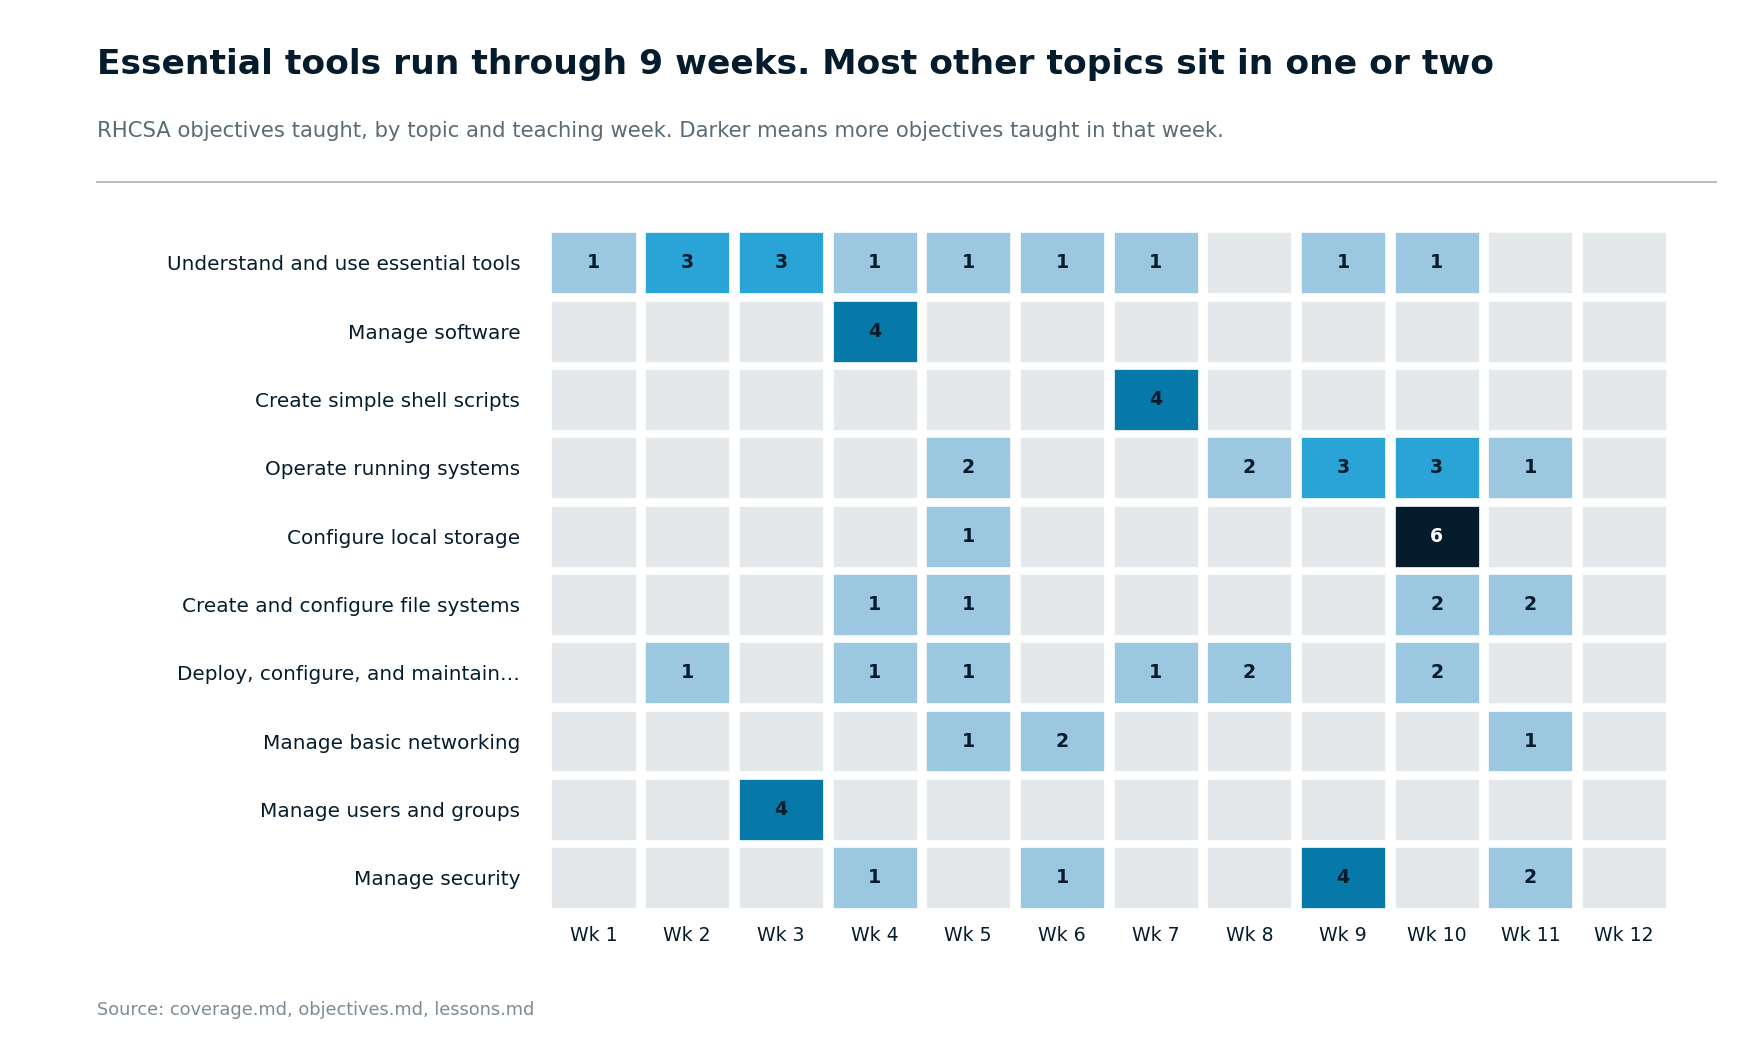
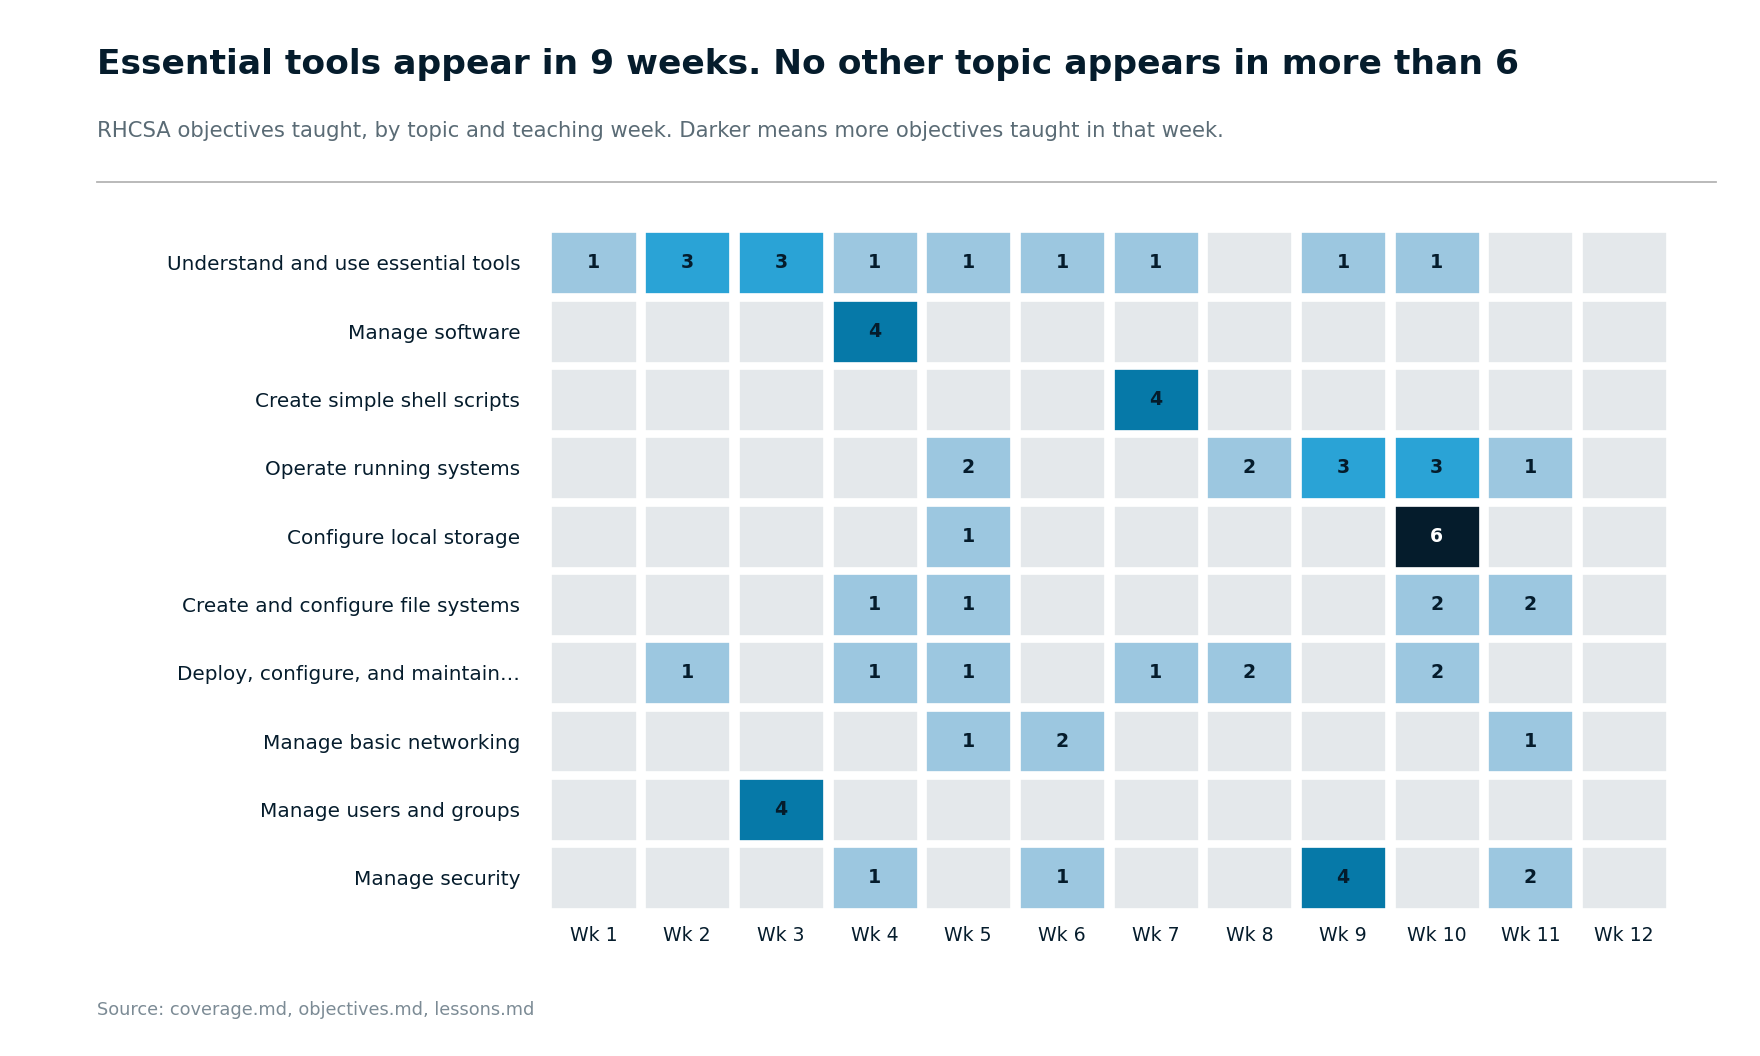
Describe the charts the way a person would
The alt text read like a machine caption. Each one opened with a label fragment,
Teaching load by week, Heatmap of topic against teaching week, then stacked
clipped facts with nothing joining them. Naming the chart type is the giveaway.
Somebody using a screen reader now gets a description, not a caption.

A review by a second model went through the same text. It caught a maxim in
MAINTAINING.md, a screenshot of someone else's work does not become publishable
by being moved into an allowed directory, which is now a plain instruction. It
also made two chart titles active and corrected the fourth, which claimed most
topics sit in one or two weeks when the honest figure is that none appears in
more than six.

The sentence under the charts is first person now, and says why they can be
trusted, which is that they are generated rather than typed.

Copilot-Session: 42281fb8-6781-4982-aa24-2cdbe7877579

Changed region(s): [[0.2188, 0.0312, 0.875, 0.0938]]

diff --git a/README.md b/README.md
@@ -23,21 +23,20 @@ I will add more as the semester goes on.
 
 <picture>
   <source media="(prefers-color-scheme: dark)" srcset="images/01-what-each-week-teaches-dark.png">
-  <img alt="Teaching load by week. Every exam objective is taught by week 11. Week 10 is the heaviest with 14 objectives, against 8 in weeks 4 and 9. Week 12 teaches no examined objective." src="images/01-what-each-week-teaches-light.png">
+  <img alt="One bar for each teaching week, showing how many exam objectives it covers. Week 10 towers over the rest at 14. By week 11 everything the exam asks about has been taught, and week 12 goes to containers, which the exam leaves alone." src="images/01-what-each-week-teaches-light.png">
 </picture>
 
 <picture>
   <source media="(prefers-color-scheme: dark)" srcset="images/04-when-each-topic-is-taught-dark.png">
-  <img alt="Heatmap of topic against teaching week. Essential tools appear in nine weeks. Most other topics sit in one or two." src="images/04-when-each-topic-is-taught-light.png">
+  <img alt="A grid of topics against weeks, shaded where a topic is taught that week. The essential tools row is shaded in nine weeks and keeps coming back. Every other topic sits in six weeks or fewer, usually in one or two runs." src="images/04-when-each-topic-is-taught-light.png">
 </picture>
 
 <picture>
   <source media="(prefers-color-scheme: dark)" srcset="images/03-when-you-can-practise-dark.png">
-  <img alt="The week each additional practice challenge becomes possible. The first opens in week 3 and all ten are open by week 11. The guided exercises run from week 1." src="images/03-when-you-can-practise-light.png">
+  <img alt="The fifteen weeks in a row, marked where challenges become possible. Two open in week 3, then a few more through the term, and the last three in week 11. Six teaching weeks bring nothing new, and the final three weeks are catch-up, revision and the exam." src="images/03-when-you-can-practise-light.png">
 </picture>
 
-These are drawn from the files above. They follow the material, so nobody has to
-keep them up to date by hand.
+I generated these from the files above, so they change when the material does.
 
 ## Getting the material
 

diff --git a/MAINTAINING.md b/MAINTAINING.md
@@ -53,12 +53,12 @@ That directory holds charts generated from the repository's own files by
 `.private/coverage-viz/generate.py`. Run that script to rebuild them after
 changing `coverage.md`, `lessons.md`, `objectives.md` or `practice.md`.
 
-Nothing else belongs in `images/`. A screenshot of someone else's work does not
-become publishable by being moved into an allowed directory.
+Nothing else belongs in `images/`. Do not use the exception for screenshots of
+somebody else's work.
 
 Each chart is rendered light and dark, and embedded with a `picture` element so
-GitHub picks the right one. Write the `alt` text as the finding, not the file
-name.
+GitHub picks the right one. After rebuilding them, check the `alt` text in
+`README.md`. Write it as the finding, not the file name.
 
 ## How citations work
 
